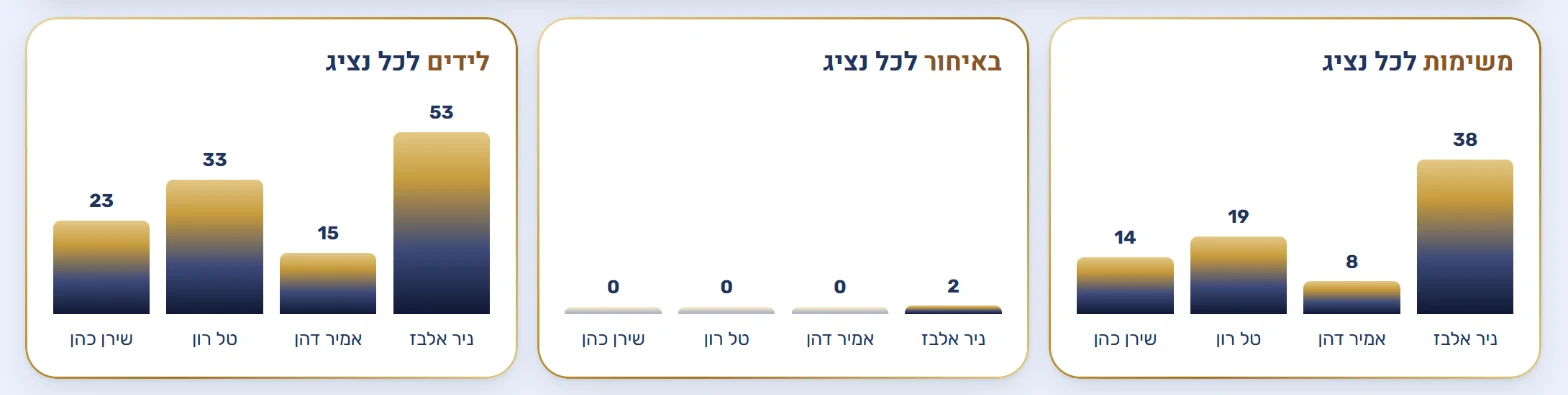
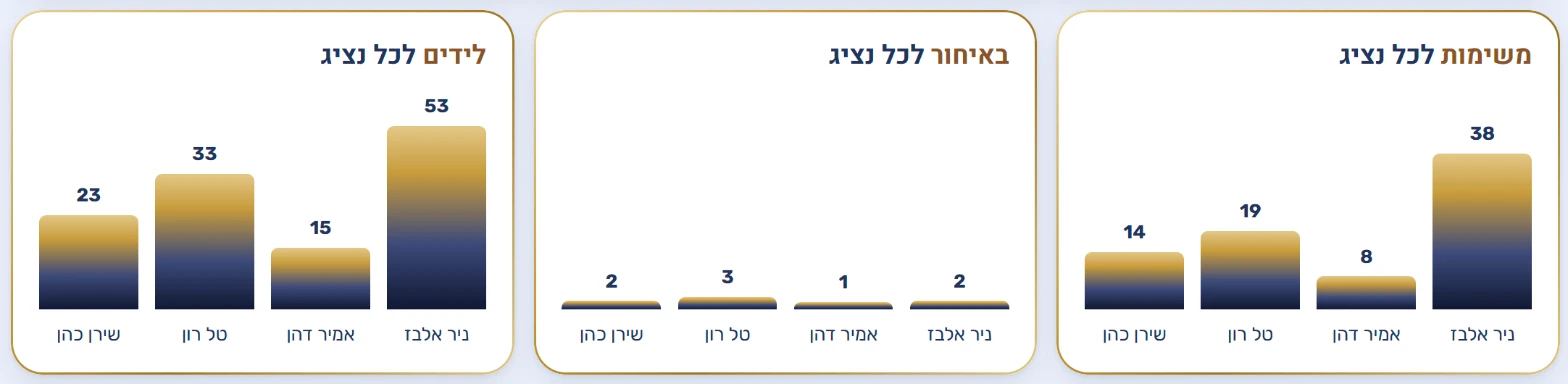
feat(crm): משימות באיחור לכל נציג בצילום, ושורת הסבר לבעלים

diff --git a/crm/index.html b/crm/index.html
@@ -276,7 +276,10 @@
           <p><b>ובתצוגת הצוות רואים מיד מה נופל בין הכיסאות:</b> לידים שממתינים לטיפול כי אין להם צעד הבא,<br>לידים שלא עונים ומתי ניסו להשיג אותם בפעם האחרונה,<br>וכמה לידים, משימות שעומדות בזמן, ומשימות באיחור יש לכל נציג.</p>
         </div>
         <figure class="shot"><img src="/assets/img/crm/leads-waiting.webp" width="1526" height="735" loading="lazy" alt="לידים שממתינים לטיפול ולידים שלא עונים" /></figure>
-        <figure class="shot"><img src="/assets/img/crm/per-rep.webp" width="1568" height="395" loading="lazy" alt="משימות, משימות באיחור ולידים לכל נציג" /></figure>
+        <figure class="shot"><img src="/assets/img/crm/per-rep.webp?v=2" width="1568" height="384" loading="lazy" alt="משימות, משימות באיחור ולידים לכל נציג" /></figure>
+        <div>
+          <p>כשאתה כבעלים רואה את הנתונים האלה, <b>אתה מבין לאיזה נציג הכי כדאי לך להפנות לידים חדשים</b>, וגם איזה נציגים זקוקים יותר לעזרה או פוש בעבודה שלהם.</p>
+        </div>
       </div>
     </section>
     <section class="sec sec-band">
